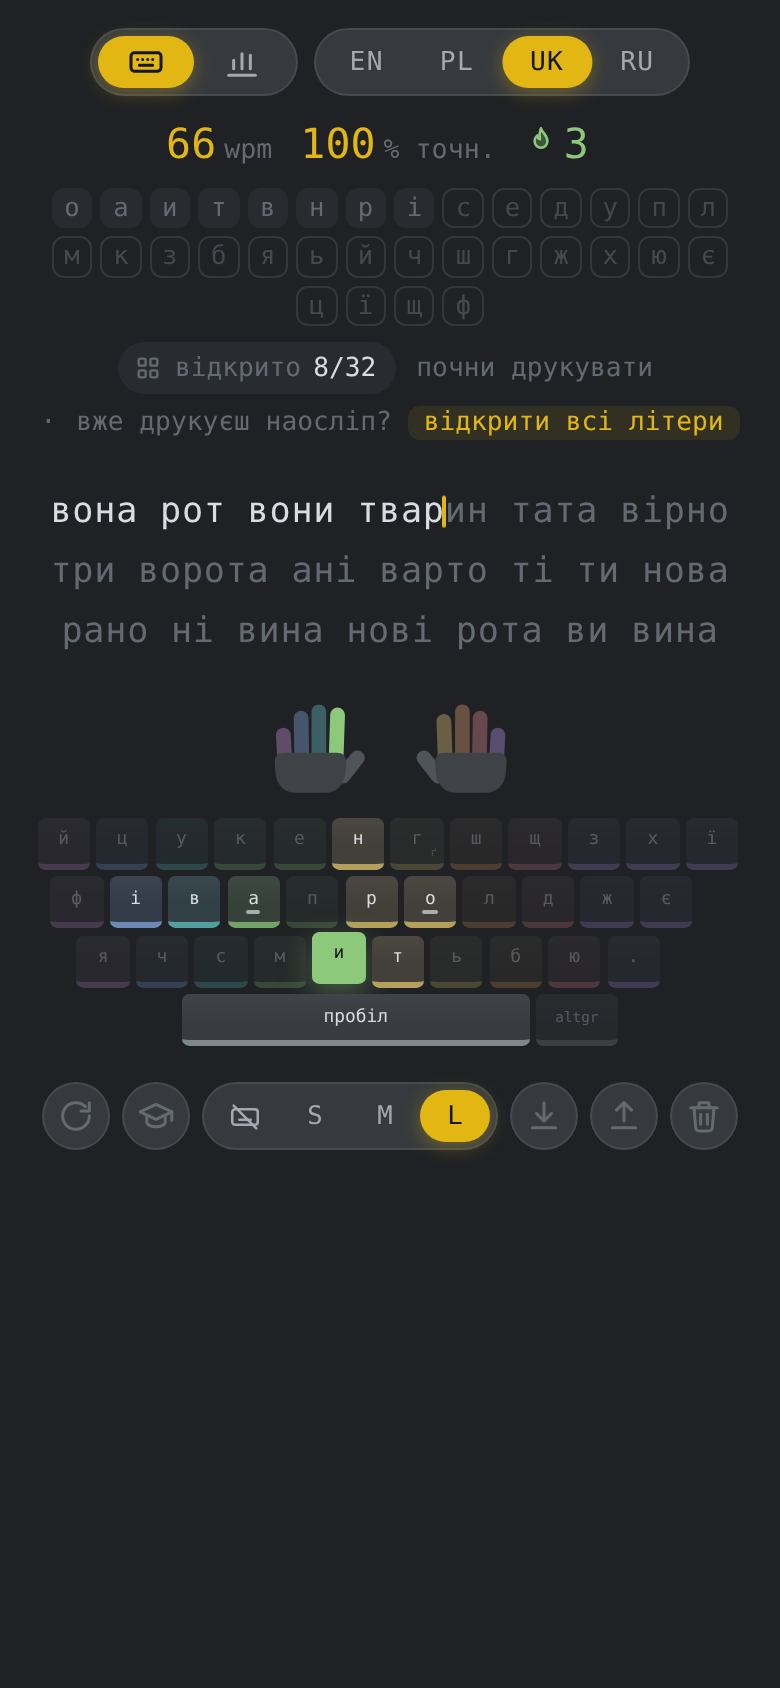
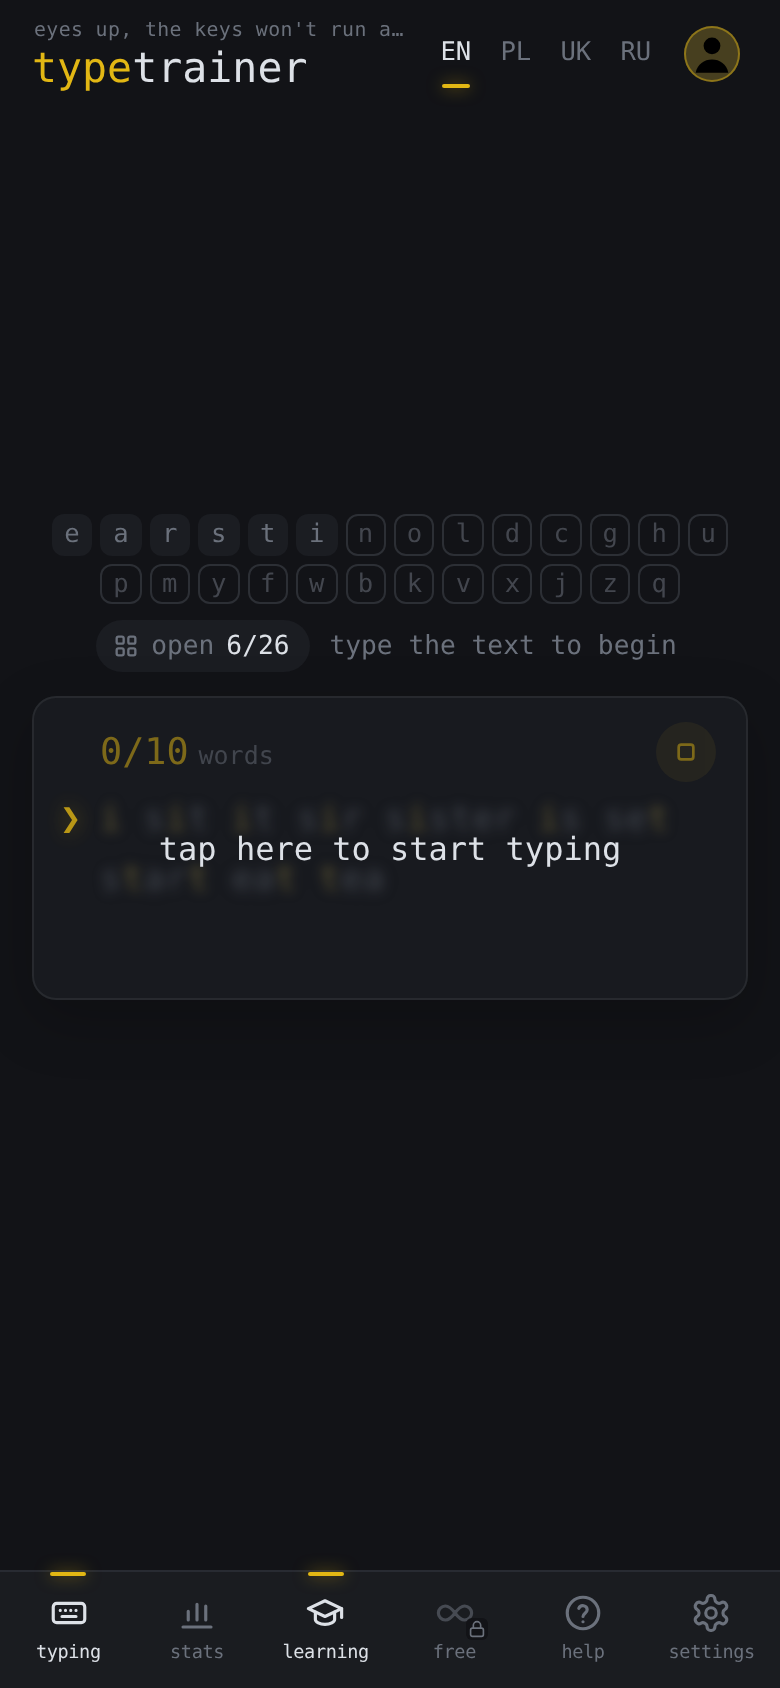
README: what the trainer does now, fresh screenshots
The README listed the features of a week ago. It now also covers the
letter row, the hands, the one-screen statistics, the settings (round
length, theme), the two guides and the phone layout, and links the newer
docs (LITERATURE, VOICE, COMMENTING). The screenshots in docs/screenshots
are retaken from the current interface; three of them are shown.

Claude-Session: https://claude.ai/code/session_0111XUnawvvF2QkwWtbxt7Xj

diff --git a/README.md b/README.md
@@ -10,6 +10,10 @@
   <a href="https://69inoi69.github.io/typetrainer/"><b>Try it in your browser</b></a>
 </p>
 
+<p align="center">
+  <img src="docs/screenshots/typing.png" width="760" alt="The typing screen: the letters row, the text, the hands and the keyboard">
+</p>
+
 ---
 
 **Work in progress.** The practical part of an engineering thesis at the
@@ -28,10 +32,27 @@ Lublin University of Technology (2027).
   decides what you practise. Free practice (words from the whole list, its own
   history, nothing shared with learning) opens when every letter is open, or
   after a one-time typing test. It is kept simple for now.
-- English, Polish, Ukrainian and Russian, each with its own progress.
+- **You see what to practise.** Above the text, a row of letters marks the
+  one in focus, the mastered ones and the next to open. The keyboard and the
+  hands show the finger for the next key. The statistics screen shows every
+  round, a keyboard coloured by difficulty and every letter from weakest to
+  strongest, all on one screen.
+- **Settings change how much and how it looks, never what:** round length
+  (10, 30 or 60 words, or 30 or 60 seconds), live numbers on or off, caret
+  style, a dark and a light theme, keyboard on or off.
+- **Two short first-visit guides:** the basics of touch typing, and how
+  this site works.
+- English, Polish, Ukrainian and Russian, each with its own progress; the
+  interface speaks the same four languages.
+- Works on a phone too, with the navigation in a bar at the bottom.
 - **Accounts** (with the local server): sign up, log in, and your progress is
   kept under your account, in PostgreSQL if `DATABASE_URL` is set, otherwise
   in the server's memory.
+
+<p align="center">
+  <img src="docs/screenshots/stats.png" width="380" alt="The statistics screen">
+  <img src="docs/screenshots/light.png" width="380" alt="The light theme">
+</p>
 
 ## Run it locally
 
@@ -57,6 +78,9 @@ website runs the same Go code compiled to WebAssembly.
 - [docs/ALGORITHM.md](docs/ALGORITHM.md): the adaptive model, every formula and parameter
 - [docs/ARCHITECTURE.md](docs/ARCHITECTURE.md): packages, data flow, API
 - [docs/USER-GUIDE.md](docs/USER-GUIDE.md): running it on Windows, every screen, button and shortcut
+- [docs/LITERATURE.md](docs/LITERATURE.md): research the model builds on
+- [docs/VOICE.md](docs/VOICE.md): how the app talks to users
+- [docs/COMMENTING.md](docs/COMMENTING.md): how comments in the code are written
 - [docs/DEVELOPMENT-LOG.pdf](docs/DEVELOPMENT-LOG.pdf): how the project was built and why
 
 ## Credits
